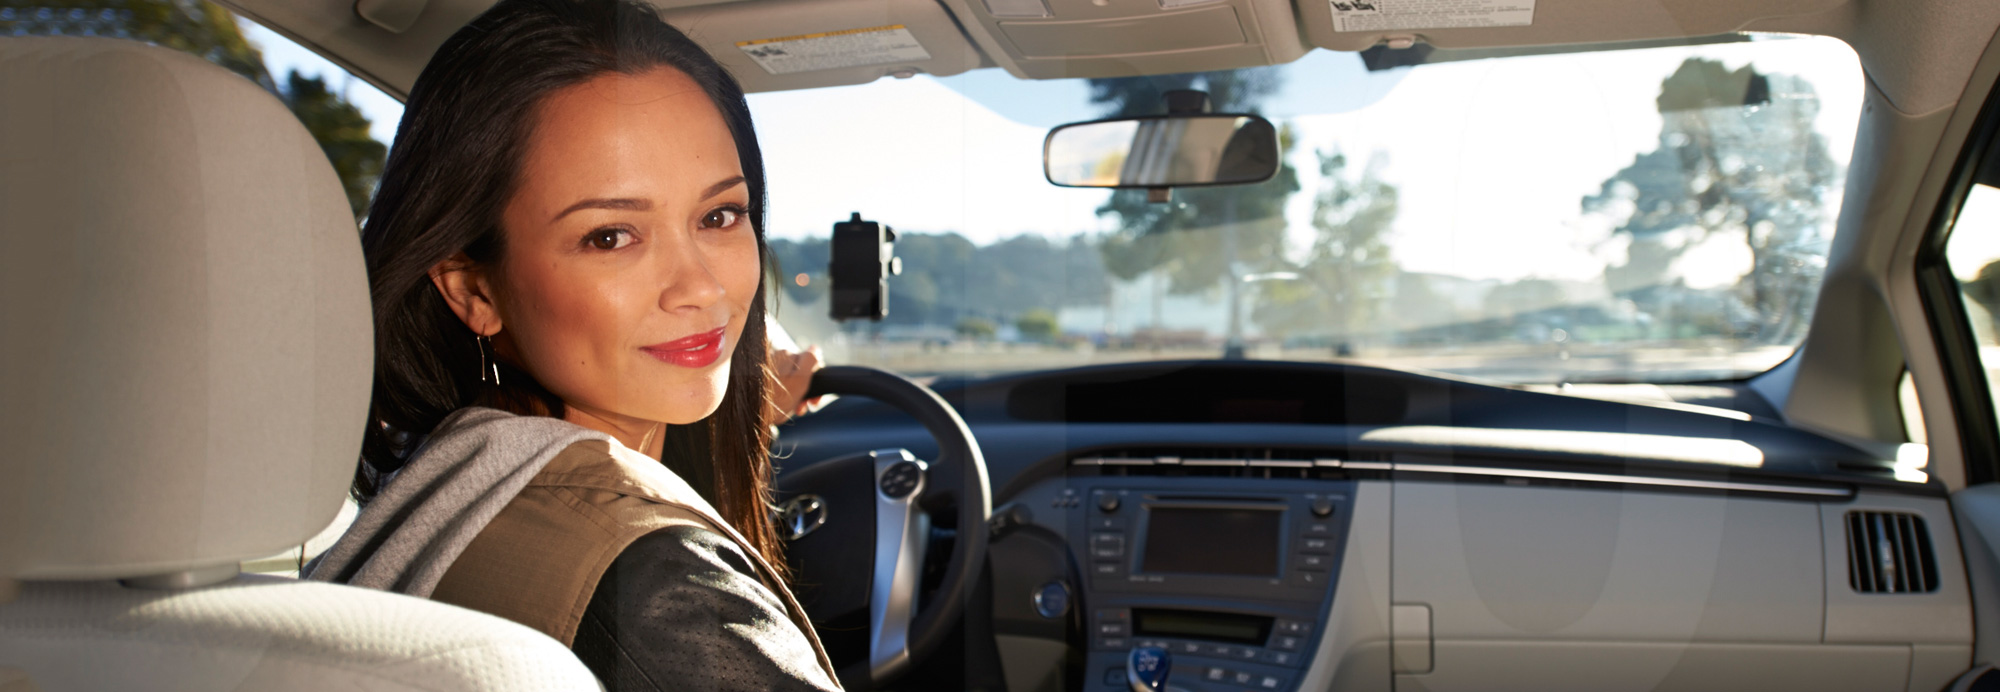
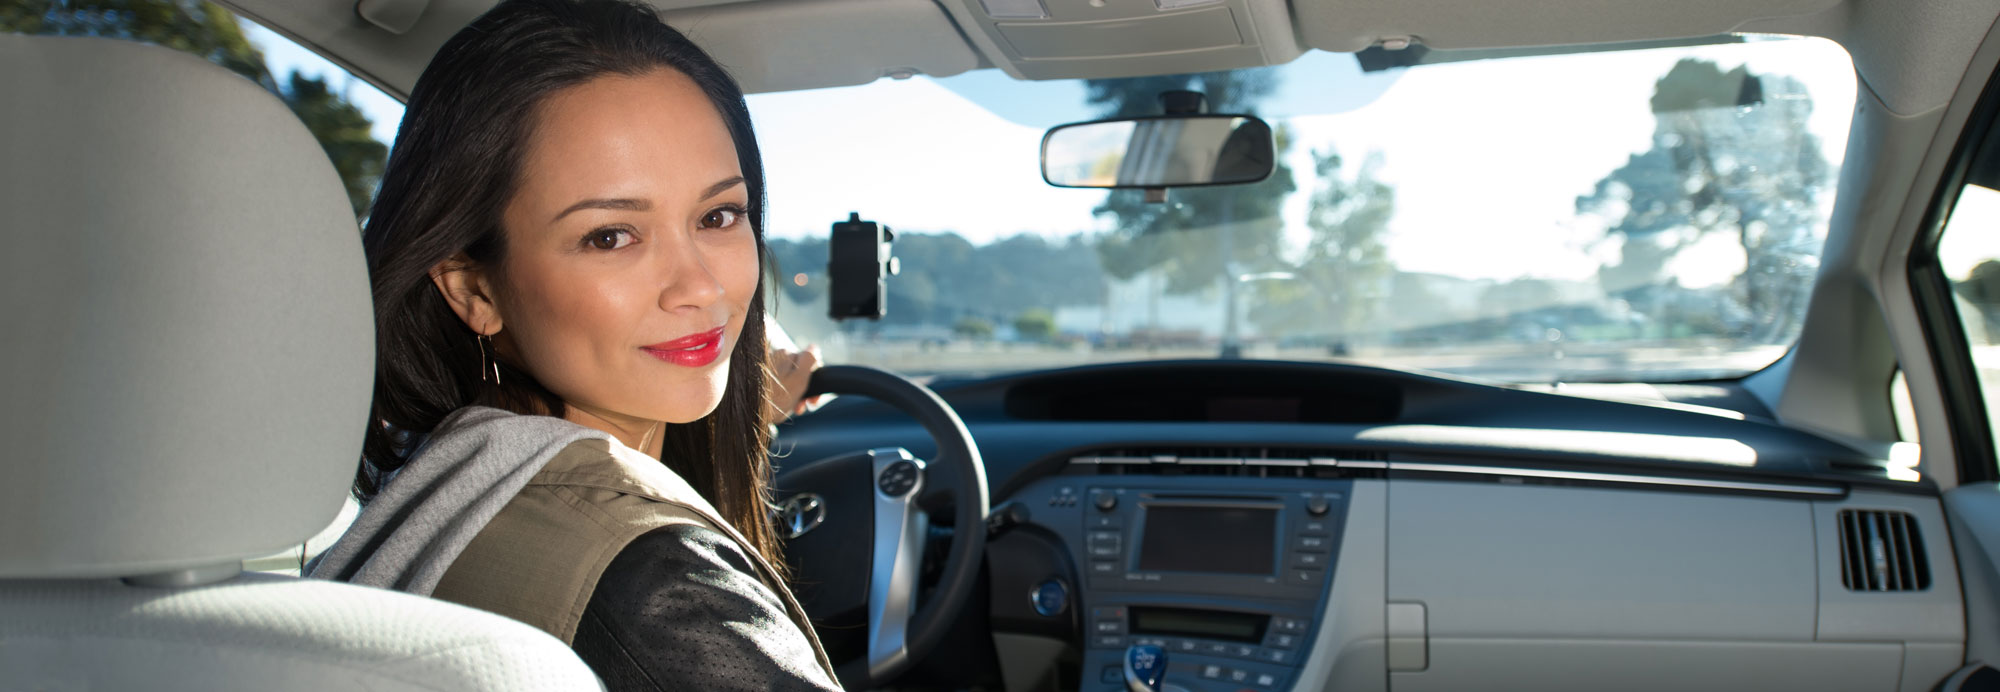
Updated billboard photo and final FAQ

diff --git a/index.html b/index.html
@@ -34,7 +34,7 @@
         <div class="container">
           <div class="row">
             <div class="col-md-8">
-              <h2>Give rides, get cash.</h2>
+              <h2>Give rides, get cash</h2>
               <p>Know your way around the city? Make money helping our community of riders travel safely and easily. Pick them up, get going, get paid. It’s that simple.</p>
             </div>
             <div class="col-md-3">
@@ -57,7 +57,7 @@
               <input type="text" id="phone" placeholder="Phone (e.g. 555-555-5555)"></input>
               <input type="text" id="password" placeholder="Password (5 character min)"></input>
               <button type="button" class="btn btn-primary">Get Started</button>
-              <span>By signing up, you agree to the <a href="https://www.uber.com/legal/privacy" target="_blank">Privacy Policy</a> and understand that Uber is a request tool, not a transportation carrier.</span>
+              <span>By signing up, you agree to the <a href="https://www.uber.com/legal/privacy" target="_blank">Privacy Policy</a> and understand that Uber is a technology platform, not a transportation carrier.</span>
             </div>
           </div>
           <div class="clearfix"></div>
@@ -73,7 +73,7 @@
             <div class="gfx gfxTime"></div>
         </div>
         <div class="col-md-5">
-          <h3>Work when you want.</h3>
+          <h3>Work when you want</h3>
           <p>Need something outside the 9 to 5? With Uber, you’ve got freedom and flexibility to drive whenever you have time. Set your own schedule, so you can be there for all of life’s most important moments.</p>
         </div>
         <div class="col-md-4">
@@ -86,7 +86,7 @@
             <div class="gfx gfxMoney"></div>
         </div>
         <div class="col-md-5">
-          <h3>Make good money.</h3>
+          <h3>Make good money</h3>
           <p>Got a car? Turn it into a money machine. The city is buzzing and Uber makes it easy to cash in on the action. Plus, you’ve already got everything you need to get started.</p>
         </div>
         <div class="col-md-4">
@@ -96,7 +96,7 @@
 
       <div class="row feature-row">
         <div class="col-md-8 text-center">
-          <h4>Meet an Uber Partner</h4>
+          <h4>Who drives with Uber</h4>
           <div class="video">
             <iframe src="//player.vimeo.com/video/88692116?title=0&amp;byline=0" width="600" height="337" frameborder="0" webkitallowfullscreen mozallowfullscreen allowfullscreen></iframe>
           </div>
@@ -111,8 +111,8 @@
             <div class="gfx gfxFreedom"></div>
         </div>
         <div class="col-md-5">
-          <h3>No office, no boss.</h3>
-          <p>Whether you’re an entrepreneur or working on your own thing, Uber gives you the freedom to get behind the wheel when it makes sense for you. Choose when you drive, where you go, and who you pick up.</p>
+          <h3>No office, no boss</h3>
+          <p>Whether you're between jobs or working on your own thing, Uber gives you the freedom to get behind the wheel when it makes sense for you. Choose when you drive, where you go, and who you pick up.</p>
         </div>
         <div class="col-md-4">
         </div>
@@ -124,7 +124,7 @@
             <div class="gfx gfxRiders"></div>
         </div>
         <div class="col-md-5">
-          <h3>Pick up safe, reliable riders.</h3>
+          <h3>Pick up safe, reliable riders</h3>
           <p>A lot can happen out there. Don’t worry about who’s in the backseat. All you have to do is keep your eyes on the road. Let us handle everything else.</p>
         </div>
         <div class="col-md-4">
@@ -137,8 +137,8 @@
             <div class="gfx gfxYourBack"></div>
         </div>
         <div class="col-md-5">
-          <h3>We've got your back.</h3>
-          <p>With cars all over the world, we’re working hard to provide drivers with a growing network of riders and better tools to improve your business—and livelihood. Your long-term success is our first priority.</p>
+          <h3>We've got your back</h3>
+          <p>With cars all over the world, we’re working hard to provide you with a growing network of riders and better tools to improve your business—and livelihood. Your long-term success is our first priority.</p>
         </div>
         <div class="col-md-4">
         </div>
@@ -191,23 +191,33 @@
             <h4>What you need to know</h4>
 
             <dl>
+              <dt class="faq-subtitle">Before you sign up</dt>
+
               <dt id="item1" class="menuItem">Who can drive with Uber?</dt>
-              <dd>Anyone with a car, valid personal insurance, driver’s license and a clean record. No special driver’s license or previous experience required. Your car must have 4 doors, and meet your city’s requirements (usually 2005 or newer).</dd>
+              <dd>Anyone with a valid drivers license, personal car insurance, a clean record, and a car. No special drivers license or previous experience required. Your car must have 4 doors (ex. Prius, Fusion, Accord, etc) and meet your city’s requirements (usually 2005 or newer).</dd>
               
-              <dt id="item2" class="menuItem">Is Uber active around my home?</dt>
-              <dd>You can drive with Uber almost anywhere there are riders. Start accepting drivers when you leave home in the morning. If you’re not getting any ride requests, check <a href="http://www.uber.com/cities">your city’s map</a> for our primary coverage area..</dd>
+              <dt id="item2" class="menuItem">Where can I drive?</dt>
+              <dd>You can drive with Uber almost anywhere there are riders. Start accepting drivers when you leave home in the morning. If you’re not getting any ride requests, check <a href="http://www.uber.com/cities">your city’s map</a> for our primary coverage area.</dd>
 
-              <dt id="item3" class="menuItem">What does it cost to drive with Uber?</dt>
-              <dd>We do not charge monthly fees and it’s free to sign up. You keep 80% of your fares. The other 20% goes toward getting you more riders, better tools, an Uber iPhone, and the legal advocacy we need to help keep your business running.</dd>
+              <dt id="item3" class="menuItem">Do I need a special insurance policy to drive with Uber?</dt>
+              <dd>No. Your personal insurance policy is all you need. Please make sure you carry the appropriate insurance to cover your liability to other parties (liability insurance), damage to your vehicle (optional collision insurance) and injury to yourself (health insurance). If you are unsure about your coverage, check with your insurance provider.</dd>
 
-              <dt id="item4" class="menuItem">How will I be paid?</dt>
+              <dt id="item4" class="menuItem">Am I covered under the insurance policy Uber carries?</dt>
+              <dd>Yes, you’re always covered when you’re on a trip requested through the Uber app. Uber carries liability insurance of $1 million per incident in case your personal policy is not available for any reason.</dd>
+
+              <dt class="faq-subtitle">Once you've started driving</dt>
+
+              <dt id="item5" class="menuItem">What does it cost to drive with Uber?</dt>
+              <dd>We do not charge monthly fees and it’s free to sign up. A small percentage of your fares (anywhere from 5 to 20%) goes toward getting you more riders, better tools, and the legal advocacy we need to help keep your business running. You keep the rest.</dd>
+
+              <dt id="item6" class="menuItem">How will I be paid?</dt>
               <dd>All drivers are paid weekly. Checks are deposited automatically via direct deposit, and drivers receive a statement showing their earnings for each trip that week.</dd>
 
-              <dt id="item5" class="menuItem">How do taxes work?</dt>
-              <dd>You pay taxes as an individual—there’s no need to register as a business. File taxes as you normally would, and we’ll send you a 1099K form that you will use to report the income you made driving with Uber. Note: None of your taxes will be withheld, so the government requires you pay taxes quarterly (not just at the end of the year). Learn more on the <a href="http://www.irs.gov/Businesses/Small-Businesses-&-Self-Employed/Estimated-Taxes">IRS’s website</a>.</dd>
+              <dt id="item7" class="menuItem">How do taxes work?</dt>
+              <dd>You pay taxes as an individual—there’s no need to register as a business. File taxes as you normally would, and we’ll send you a 1099 form that you will use to report the income you made driving with Uber.</dd>
 
-              <dt id="item6" class="menuItem">Can I write off my mileage?</dt>
-              <dd>You have the freedom to work or not work when you want. It’s your business. Just log off from your Uber phone and take time when you need it. No need for approvals. No commitment. No questions asked. And when you get back, you can get start working without missing a beat.</dd>
+              <dt id="item8" class="menuItem">What if I want to take some time off?</dt>
+              <dd>You have the freedom to work or not work when you want. You’re the boss. Just log off from your Uber phone and take time when you need it. No need for approvals. No commitment. No questions asked. And when you get back, we’ll have riders waiting so you can start working right away.</dd>
             </dl>
             <div class="mobile-cta">
               <h3>Ready to Drive?</h3>

diff --git a/css/driver-landing.css b/css/driver-landing.css
@@ -294,7 +294,6 @@ p, span {
 		text-align: left;
 		padding: 10px 0 0 0;
 		margin-bottom: 20px;
-		border-bottom: 1px solid #3c3c3c;
 	}
 
 	.faq dt {
@@ -315,6 +314,19 @@ p, span {
 		position: relative;
 		display: block;
 		padding-bottom: 20px;
+	}
+
+	.faq dt.faq-subtitle {
+		color: #ccc;
+		background: #3c3c3c;
+		padding: 16px 20px;
+		cursor: default;
+		font-size: 14px;
+		margin-top: 16px;
+	}
+
+	.faq dt.faq-subtitle:first-child {
+		margin-top: 0;
 	}
 
 .mobile-cta {
